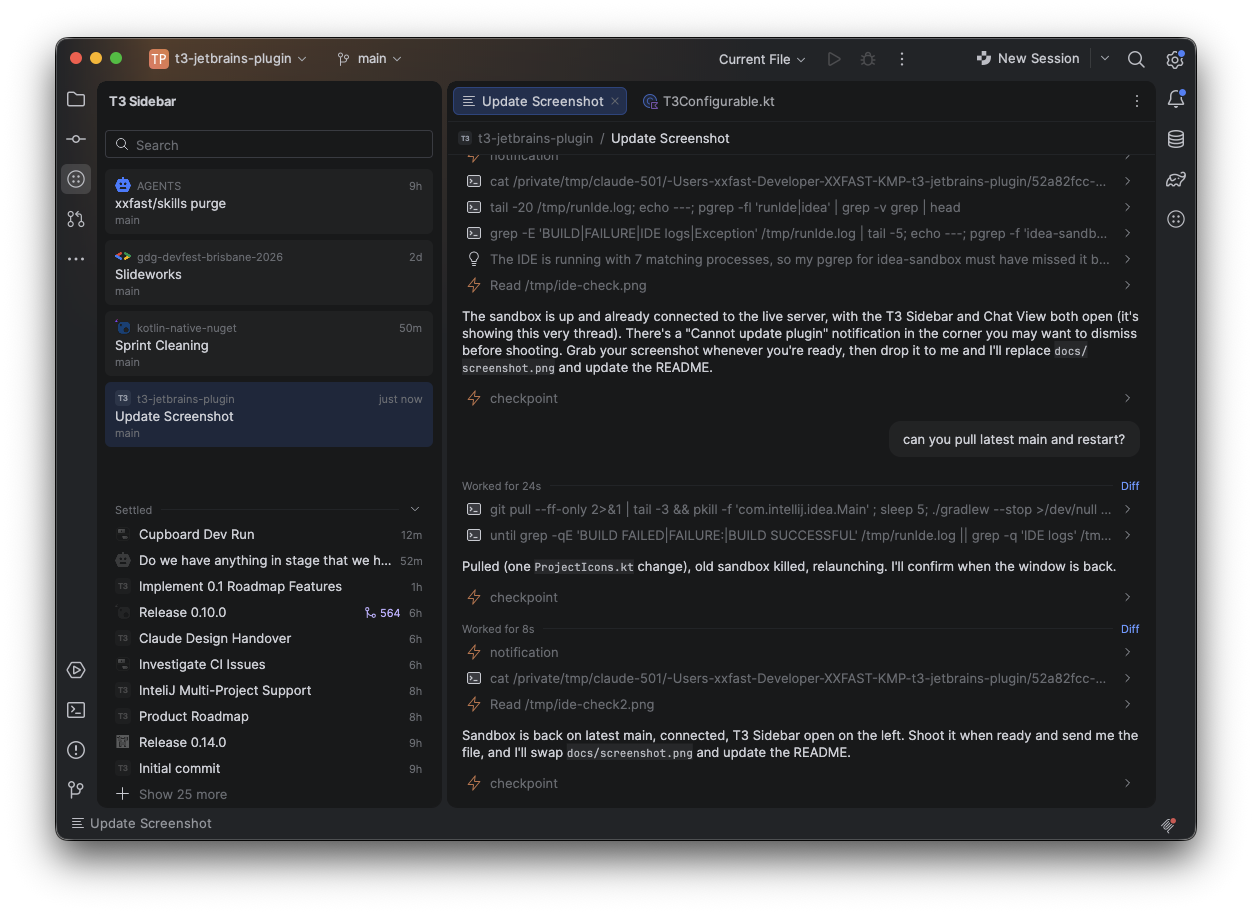
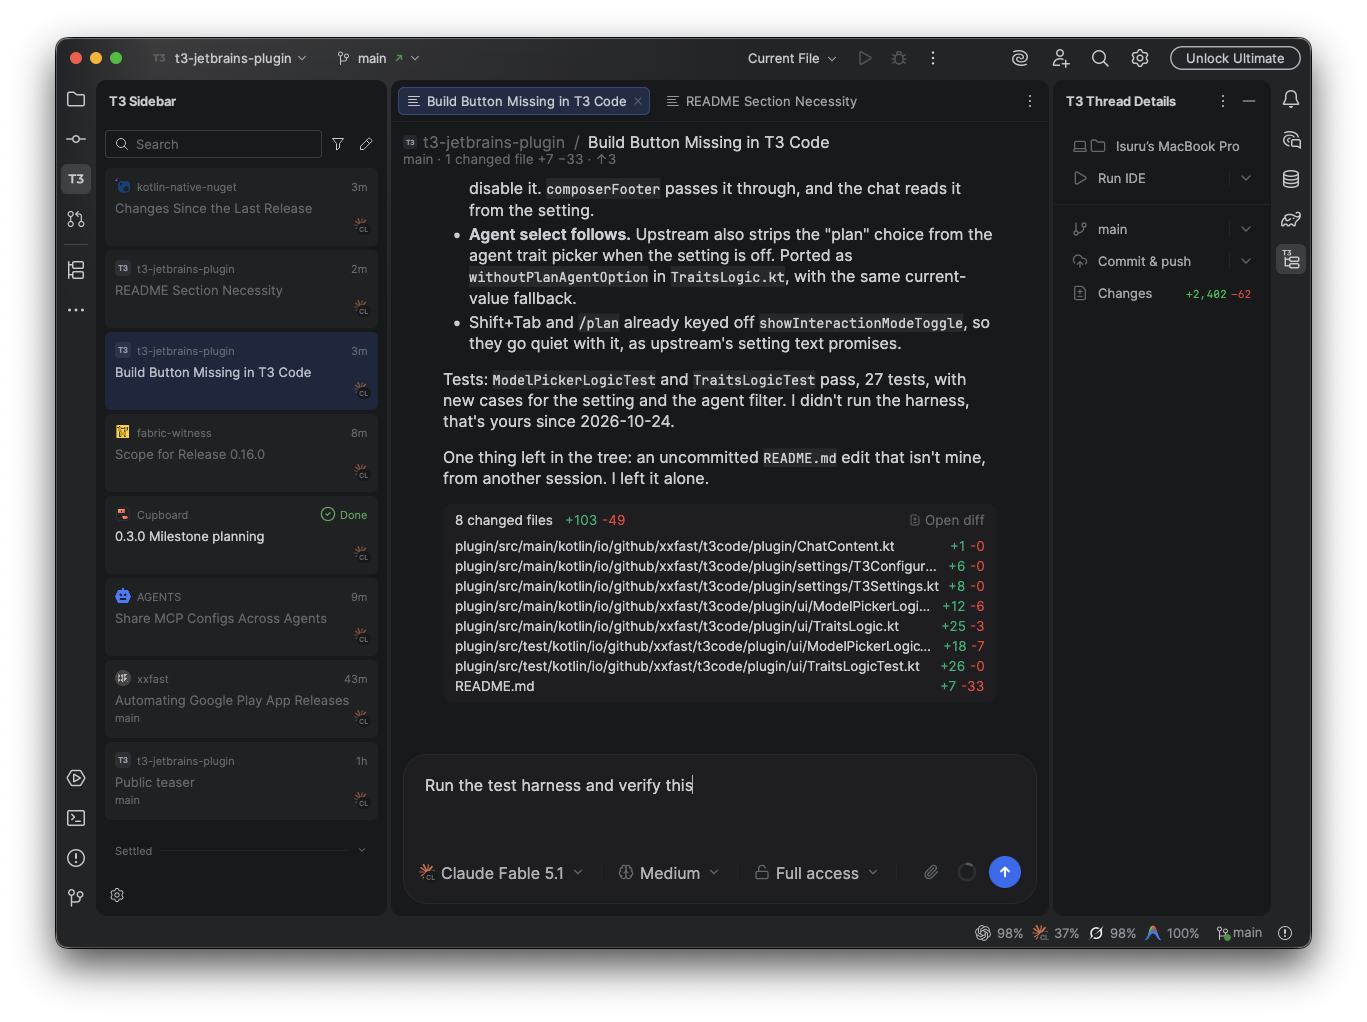
README screenshots show 0.1.0: Sidebar, Chat View tab and Thread Details

diff --git a/README.md b/README.md
@@ -6,7 +6,7 @@ permission prompts in a tool window; files, diffs and terminals in the IDE you a
 <picture>
   <source media="(prefers-color-scheme: dark)" srcset="docs/screenshot-dark.png">
   <source media="(prefers-color-scheme: light)" srcset="docs/screenshot-light.png">
-  <img alt="T3 Sidebar and T3 Chat View tool windows" src="docs/screenshot-light.png">
+  <img alt="T3 Sidebar, a Chat View tab and T3 Thread Details in IntelliJ IDEA" src="docs/screenshot-light.png">
 </picture>
 
 Unofficial, built for my own use. Will publish if it turns out useful to others.
